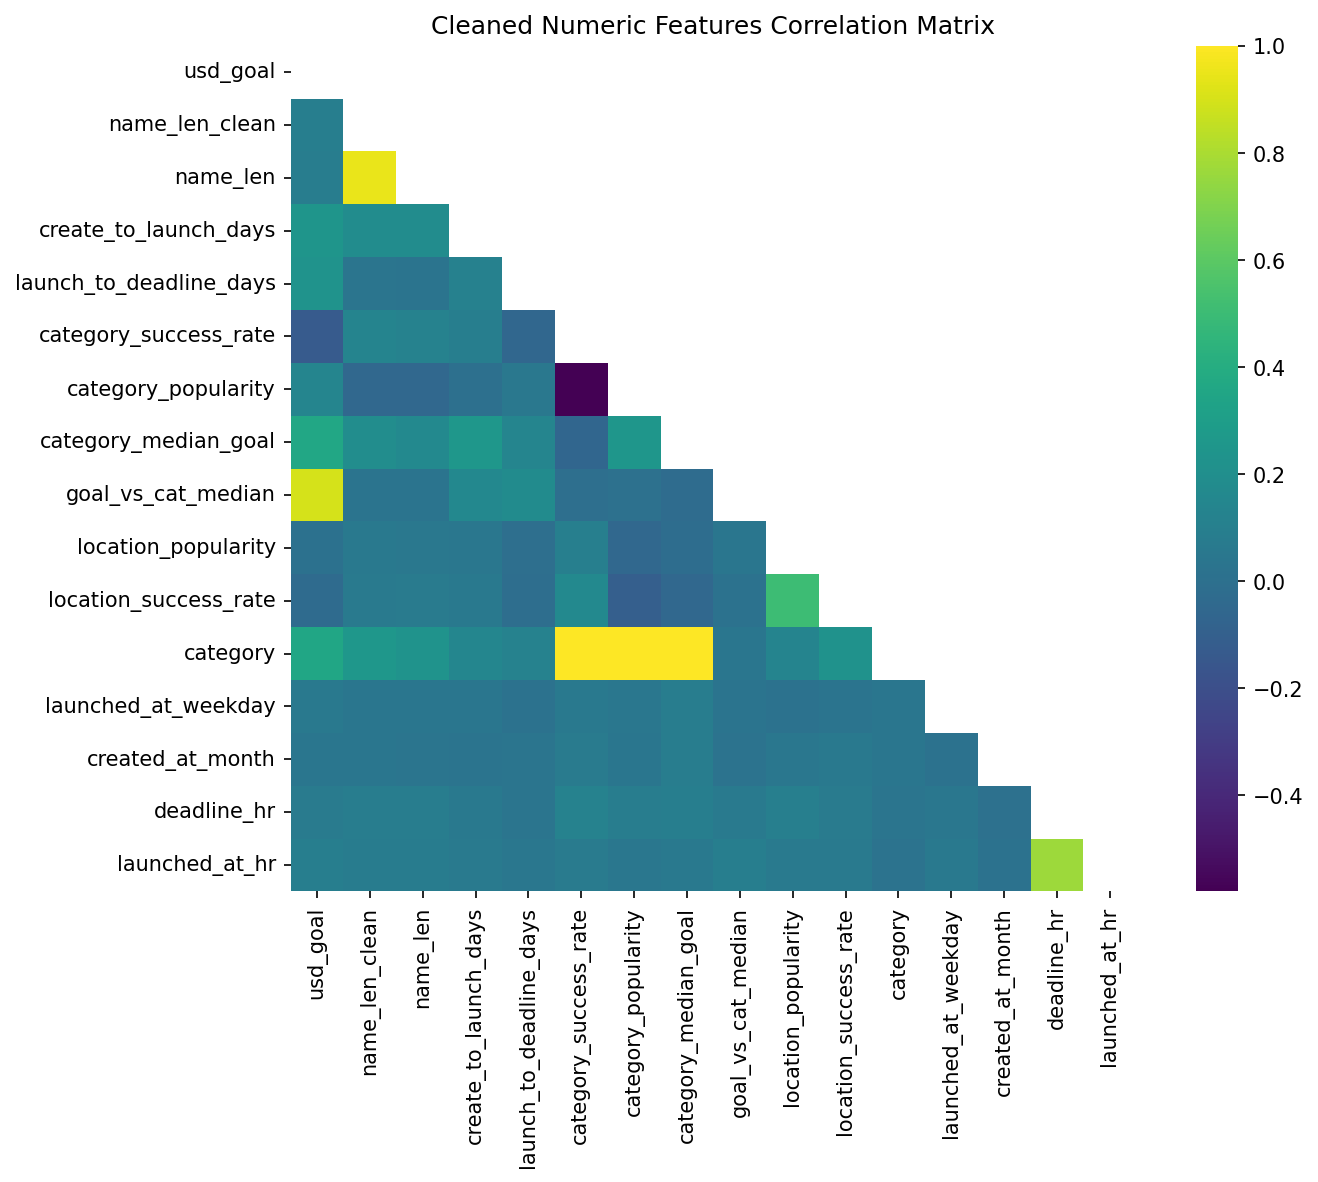
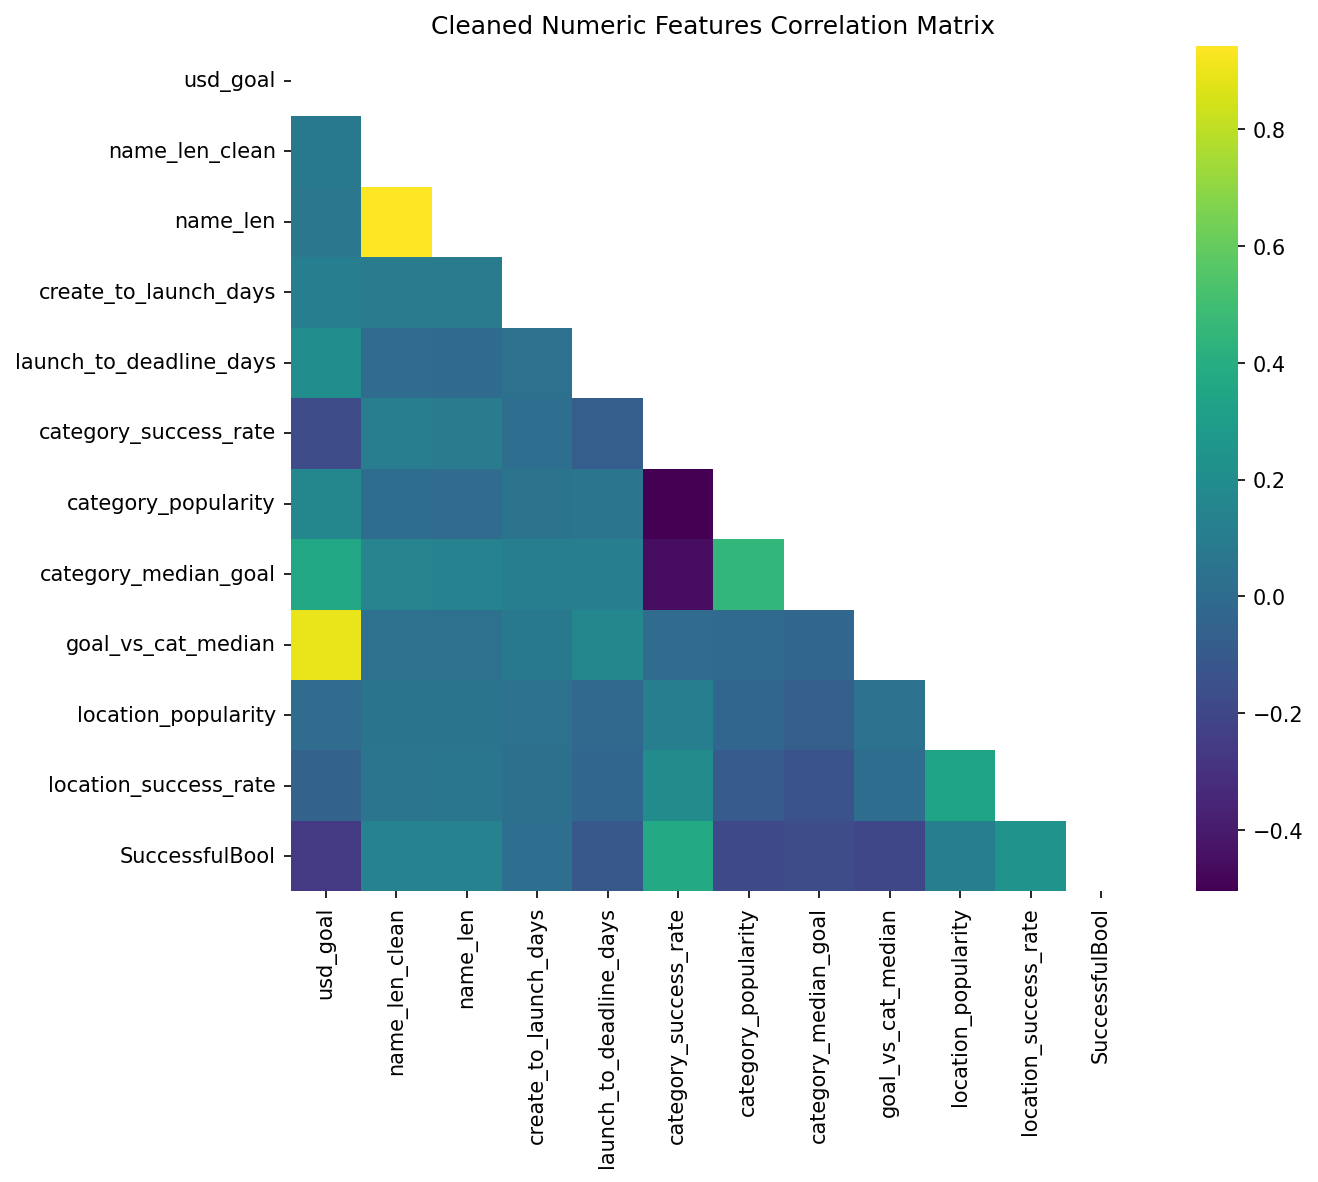
fixed eda script

diff --git a/eda.py b/eda.py
@@ -71,90 +71,11 @@ def plot_histogram(data: pd.DataFrame,
     plt.close("all")
     return
 
-def cramers_v(x, y):
-    """Cramér's V for two categorical vectors."""
-    confusion = pd.crosstab(x, y)
-    chi2 = chi2_contingency(confusion)[0]
-    n = confusion.sum().sum()
-    if n == 0:
-        return np.nan
-    phi2 = chi2 / n
-    r, k = confusion.shape
-    # Bias correction
-    phi2_corr = max(0, phi2 - (k - 1) * (r - 1) / (n - 1))
-    r_corr = r - (r - 1)**2 / (n - 1)
-    k_corr = k - (k - 1)**2 / (n - 1)
-    denom = min((k_corr - 1), (r_corr - 1))
-    if denom <= 0:
-        return np.nan
-    return np.sqrt(phi2_corr / denom)
-
-def correlation_ratio(categories, values):
-    """Correlation ratio (eta) for categorical -> numeric."""
-    # categories: 1D array-like of discrete labels
-    # values: 1D array-like of numeric
-    categories = np.array(categories)
-    values = np.array(values)
-
-    mask = ~pd.isna(categories) & ~pd.isna(values)
-    categories = categories[mask]
-    values = values[mask]
-
-    if len(values) == 0:
-        return np.nan
-
-    overall_mean = np.mean(values)
-    ss_between = 0.0
-    for c in np.unique(categories):
-        vals_c = values[categories == c]
-        if len(vals_c) == 0:
-            continue
-        ss_between += len(vals_c) * (np.mean(vals_c) - overall_mean) ** 2
-
-    ss_total = np.sum((values - overall_mean) ** 2)
-    if ss_total == 0:
-        return 0.0
-    return np.sqrt(ss_between / ss_total)
-
-def mixed_corr(df: pd.DataFrame,
-               cat_cols: list,
-               num_cols: list) -> pd.DataFrame:
-    all_cols = num_cols + cat_cols
-
-    corr_mat = pd.DataFrame(
-        np.zeros((len(all_cols), len(all_cols))),
-        index=all_cols, # type: ignore
-        columns=all_cols, # type: ignore
-        dtype=float
-    )
-
-    # numeric-numeric (Spearman is robust for non-linear/ordinal)
-    corr_num = df[num_cols].corr(method="spearman") # type: ignore
-    for i in num_cols:
-        for j in num_cols:
-            corr_mat.loc[i, j] = corr_num.loc[i, j]
-
-    # categorical-categorical (Cramér's V)
-    for i in cat_cols:
-        for j in cat_cols:
-            corr_mat.loc[i, j] = cramers_v(df[i], df[j])
-
-    # numeric-categorical (correlation ratio)
-    for n in num_cols:
-        for c in cat_cols:
-            eta = correlation_ratio(df[c], df[n])
-            corr_mat.loc[n, c] = eta
-            corr_mat.loc[c, n] = eta
-
-    return corr_mat
-
 def correlation_matrix(data: pd.DataFrame,
                        title: str,
-                       cat_cols: list,
-                       num_cols: list,
                        outpath: Path):
     """Plot correlation matrix heatmap for given data"""
-    corr = mixed_corr(data, cat_cols, num_cols) 
+    corr = data.corr(method="pearson")
     plt.figure(figsize=(10, 8))
     mask = np.triu(np.ones_like(corr, dtype=bool))
     sns.heatmap(corr, mask=mask, square=True, annot=False, cmap="viridis")
@@ -169,15 +90,13 @@ def correlation_matrix(data: pd.DataFrame,
 def scatter_plots(data: pd.DataFrame,
                     y_name: str,
                     title: str,
-                    cat_cols: list,
-                    num_cols: list,
                     outpath: Path,
                     n_top: int = 5):
     """Plot scatter matrix for n_top correlated features"""
-    corr = mixed_corr(data, cat_cols + [y_name], num_cols) # TODO generalize for cat/num outputs
+    corr = data.corr(method="pearson")
     y_corr = corr[y_name].drop(y_name).abs().sort_values(ascending=False) # type: ignore
     top_features = y_corr.head(n_top).index.tolist()
-    subset_cols = top_features + [y_name]
+    subset_cols = top_features
     plt.figure(figsize=(10, 10))
     scatter_matrix(data[subset_cols], diagonal="hist", figsize=(10, 10)) # type: ignore
     plt.suptitle(title, y=1.02)
@@ -305,19 +224,15 @@ def main():
 
     # Correlation matrix
     clean_corr_path = outdir / CLEAN_CORR_NAME    
-    correlation_matrix(X, # type: ignore
+    correlation_matrix(X[numeric_cols].join(y), # type: ignore
                         title="Cleaned Numeric Features Correlation Matrix",
-                        cat_cols=categorical_cols,
-                        num_cols=numeric_cols,
                         outpath=clean_corr_path)
 
     # Scatter plots for top correlated features
     clean_scatter_path = outdir / "03_cleaned_numeric_scatter_matrix_top.png"
-    scatter_plots(X.join(y), # type: ignore
+    scatter_plots(X[numeric_cols].join(y), # type: ignore
                     y_name=y_name,
                     title="Cleaned Numeric Features Scatter Matrix (Top Correlated)",
-                    cat_cols=categorical_cols,
-                    num_cols=numeric_cols,
                     outpath=clean_scatter_path)
 
     # Bar plots for categorical features
